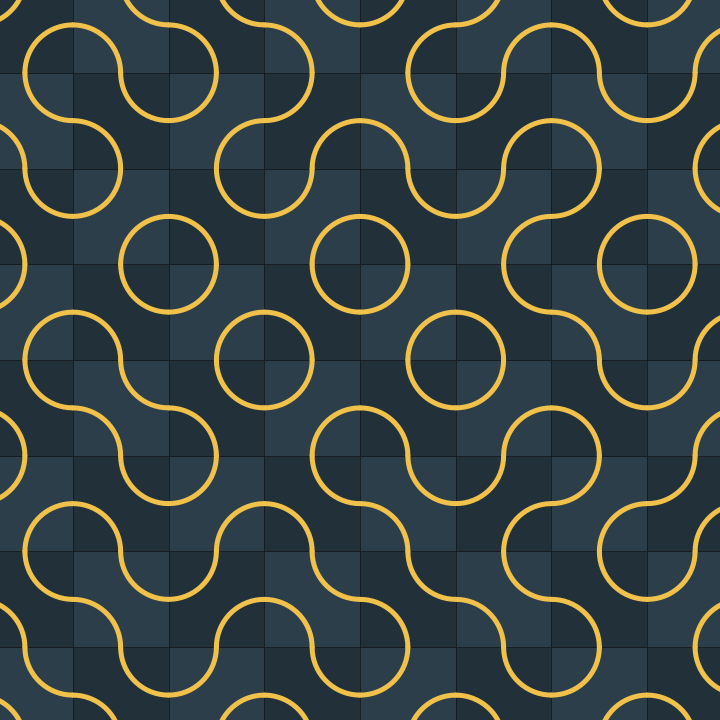
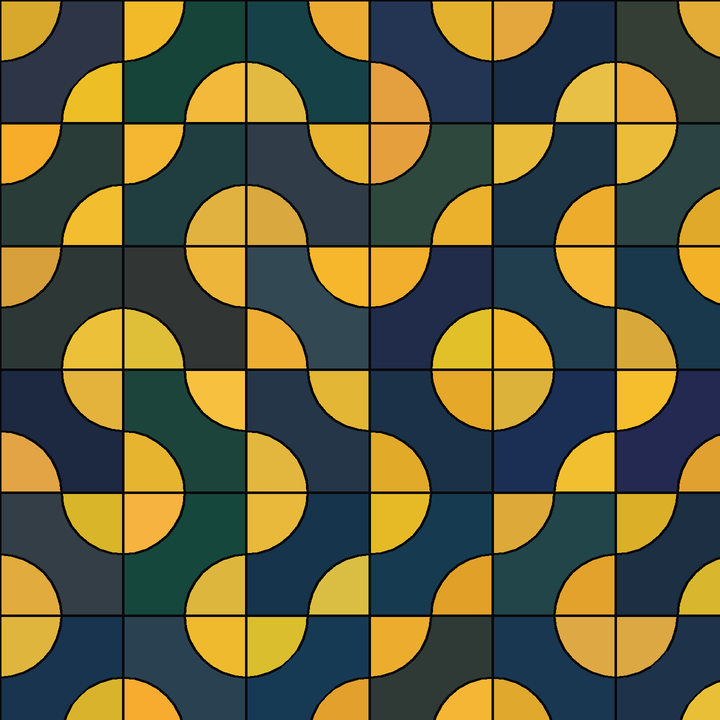
feat(shapes): wire truchet + truchet_hex (rejestr=37, Tier B zamkniety)
Truchet bez _CurvedMask (odrzucony 2026-07-11): komorka = REGION wyciety przez
luki, nie sam luk. Kwadrat -> 2 cwiercdyski (r=s/2 na przeciwleglych rogach) +
wstega "S"; heksagon -> 3 wycinki 120 st. na naprzemiennych wierzcholkach +
zakrzywiony srodek. Luk dochodzi do krawedzi w jej srodku pod katem prostym, a
kazda krawedz ma dokladnie jeden koniec w wybranej trojce => krzywe lacza sie
przez krawedzie niezaleznie od orientacji sasiada. Sasiadujace komorki wolaja
_sun_arc z TYMI SAMYMI argumentami => wspolny brzeg probkowany identycznie.

- _arc_pitch(r, tol) — NOWY helper. seg=base_s/3 (jak sunburst/voderberg) jest
  zly dla truchetu: tam promien rosnie z kadrem, tu jest zawsze ~base_s/2, wiec
  strzalka wychodzila 1-3 px i luki byly fasetowane (widoczne w truchet_hex).
  sqrt(8*r*tol) trzyma strzalke pod-pikselowo przy kazdym promieniu.
- _truchet_flip(i, j) — orientacja z hasha indeksu komorki, ZERO RNG: ta sama
  komorka ma ta sama orientacje w kazdej rozdzielczosci (podglad 2K pokazuje
  wzor, ktory bedzie w 16K — lekcja z seeda girih).
- Schematy GUI zregenerowane Z GEOMETRII SILNIKA (nowy, commitowany
  src/tools/gen_truchet_schemes.py): stare PNG rysowaly cienkie luki na tle,
  a mozaika rysuje komorki. Dwutonowa paleta => krzywe nadal sie czytaja.

Bramki: pokrycie 0.00%/0.01% dziur (najwieksza spojna dziura 1 px = szum
rasteryzacji na krzywych szwach), +4 goldeny both-borders identyczne w 2
procesach, 363 testy zielone, rendery 2K w output/new3_truchet*.jpg.

diff --git a/src/engine_smart.py b/src/engine_smart.py
@@ -1163,6 +1163,111 @@ def _gen_weave(engine, target_w, target_h, base_s):
                    (xc + half, yc + pitch - half)]
 
 
+# --- Truchet (square + hex) ------------------------------------------------
+# PLAN_SHAPES listed these as "Tier B" needing a curved-mask class; the
+# 2026-07-11 review dropped that (see MEMORY): an arc polygonised with a
+# sub-pixel sagitta and aa=4 in _LazyMask rasterises like a true curve, and
+# `_sun_arc` already does exactly that for sunburst/voderberg. So a Truchet
+# tile is an ordinary `polygon` shape: the arcs cut each square/hexagon into
+# cells, and neighbouring cells that share an arc call `_sun_arc` with the SAME
+# arguments, so the shared boundary is sampled identically (exact partition).
+#
+# Orientation is NOT drawn from an RNG: it is a hash of the lattice index, so
+# the same cell gets the same orientation at every resolution -- the preview
+# shows the pattern the 16K render will have ("the same pattern, just more of
+# it", the girih seed lesson), and the shape stays reproducible bit-for-bit.
+def _arc_pitch(r, tol=0.35):
+    """Chord pitch (px) for `_sun_arc` that keeps the sagitta under `tol` px on
+    an arc of radius r: sagitta ~ pitch^2 / (8r). Sunburst/voderberg can use a
+    base_s-derived pitch because their arc radius grows with the frame; a
+    Truchet arc has radius ~ base_s/2 at ANY resolution, so a pitch of base_s/3
+    would leave a visible 1-3 px facet on every cell."""
+    return max(2.0, math.sqrt(8.0 * r * tol))
+
+
+def _truchet_flip(i, j):
+    """Deterministic 0/1 orientation for lattice cell (i, j) (integer hash)."""
+    h = ((i * 73856093) ^ (j * 19349663)) & 0xFFFFFFFF
+    h ^= h >> 15
+    h = (h * 2246822519) & 0xFFFFFFFF
+    h ^= h >> 13
+    return h & 1
+
+
+def _gen_truchet(engine, target_w, target_h, base_s):
+    """Classic (Smith) Truchet: each square is cut by two quarter-circle arcs of
+    radius s/2 centred on OPPOSITE corners -> three cells: two quarter discs and
+    the S-shaped middle band. The arcs meet the square's edges at their
+    midpoints at a right angle, so they join into continuous curves across the
+    whole frame whichever way each square is flipped.
+
+    Dominant cell = the middle band, area s^2*(1 - pi/8) -> s = base_s /
+    sqrt(1 - pi/8); the quarter discs are the small tile of the mixed tiling
+    (pi/16 s^2, as in rhombitrihex)."""
+    s = base_s / math.sqrt(1.0 - math.pi / 8.0)
+    r = s / 2.0
+    seg = _arc_pitch(r)
+    for i in range(-1, int(target_w / s) + 2):
+        for j in range(-1, int(target_h / s) + 2):
+            x0, y0 = i * s, j * s
+            x1, y1 = x0 + s, y0 + s
+            if _truchet_flip(i, j) == 0:            # arcs at top-left/bottom-right
+                a_tl = _sun_arc(r, 0.0, math.pi / 2, x0, y0, seg)
+                a_br = _sun_arc(r, math.pi, 1.5 * math.pi, x1, y1, seg)
+                yield [(x0, y0)] + a_tl
+                yield [(x1, y1)] + a_br
+                yield ([(x1, y0)] + list(reversed(a_br))
+                       + [(x0, y1)] + list(reversed(a_tl)))
+            else:                                   # arcs at top-right/bottom-left
+                a_tr = _sun_arc(r, math.pi / 2, math.pi, x1, y0, seg)
+                a_bl = _sun_arc(r, 1.5 * math.pi, 2.0 * math.pi, x0, y1, seg)
+                yield [(x1, y0)] + a_tr
+                yield [(x0, y1)] + a_bl
+                yield ([(x0, y0)] + list(reversed(a_tr))
+                       + [(x1, y1)] + list(reversed(a_bl)))
+
+
+def _gen_truchet_hex(engine, target_w, target_h, base_s):
+    """Hexagonal Truchet: three arcs of radius a/2 centred on ALTERNATE vertices
+    of each hexagon, each joining the midpoints of that vertex's two edges. Every
+    edge has exactly one of its endpoints in the chosen alternating triple, so
+    every edge midpoint is an arc endpoint in BOTH neighbouring hexagons and the
+    curves always continue across edges (the arc meets the edge at a right
+    angle: the radius runs along the edge).
+
+    Cells: three 120-degree pie slices at the chosen vertices + the curved
+    middle. Dominant = middle, area a^2*(3*sqrt(3)/2 - pi/4) -> a from base_s."""
+    a = base_s / math.sqrt(1.5 * math.sqrt(3.0) - math.pi / 4.0)
+    r = a / 2.0
+    seg = _arc_pitch(r)
+    t1 = complex(math.sqrt(3.0), 0) * a
+    t2 = complex(math.sqrt(3.0) / 2, 1.5) * a
+    m0, m1, n0, n1 = _lattice_mn_range(t1, t2, target_w, target_h, pad=1.2 * a)
+    corner = [cmath.exp(1j * math.radians(30 + 60 * k)) * a for k in range(6)]
+    for m in range(m0, m1 + 1):
+        for n in range(n0, n1 + 1):
+            c = m * t1 + n * t2
+            v = [c + z for z in corner]
+            mid = [(v[k] + v[(k + 1) % 6]) / 2 for k in range(6)]   # mid[k]: v[k]-v[k+1]
+            odd = _truchet_flip(m, n)                # which alternating triple
+            arcs, middle = {}, []
+            for k in range(6):
+                if k % 2 == odd:                     # vertex v[k] carries an arc
+                    p, q = mid[(k - 1) % 6], mid[k]  # its two edge midpoints
+                    a0 = cmath.phase(p - v[k])
+                    a1 = cmath.phase(q - v[k])
+                    d = (a1 - a0 + math.pi) % (2 * math.pi) - math.pi   # short way
+                    arcs[k] = _sun_arc(r, a0, a0 + d, v[k].real, v[k].imag, seg)
+                    middle += arcs[k]
+                else:                                # vertex stays a corner
+                    middle += [(mid[(k - 1) % 6].real, mid[(k - 1) % 6].imag),
+                               (v[k].real, v[k].imag),
+                               (mid[k].real, mid[k].imag)]
+            for k, arc in arcs.items():
+                yield [(v[k].real, v[k].imag)] + arc
+            yield middle
+
+
 @dataclass(frozen=True)
 class ShapeSpec:
     """Descriptor for one tile shape.
@@ -1221,6 +1326,8 @@ SHAPE_MODES = {
     "voderberg":                ShapeSpec("polygon", _gen_voderberg, aa=4),
     "escher_lizard":            ShapeSpec("polygon", _gen_escher, aa=4),
     "weave":                    ShapeSpec("polygon", _gen_weave, aa=4),
+    "truchet":                  ShapeSpec("polygon", _gen_truchet, aa=4),
+    "truchet_hex":              ShapeSpec("polygon", _gen_truchet_hex, aa=4),
 }
 
 

diff --git a/src/tools/gen_truchet_schemes.py b/src/tools/gen_truchet_schemes.py
@@ -1,0 +1,70 @@
+"""Regenerate the GUI scheme previews for truchet / truchet_hex.
+
+The original PNGs (commit 2ec504c) were LINE DRAWINGS — thin arcs over a faint
+grid. That is what a Truchet pattern looks like on paper, but not what the
+engine renders: the engine's cells are the REGIONS the arcs cut out (two
+quarter discs + an S-band per square; three pie slices + a curved middle per
+hexagon), each filled with one photograph. A scheme that shows curves the
+mosaic cannot draw is a lie, so both PNGs are rebuilt from the engine's own
+generators (`_gen_truchet`, `_gen_truchet_hex`) — one source of geometry.
+
+Two-tone palette: the arc-corner cells get the accent colour, the middle cells
+the dark base, so the Truchet curves still read as the boundary between them.
+
+Run:
+  C:/Users/plazo/miniconda3/envs/mosaic/python.exe -m src.tools.gen_truchet_schemes
+"""
+import logging
+from pathlib import Path
+
+import numpy as np
+from PIL import Image, ImageDraw
+
+from src.engine_smart import SHAPE_MODES
+
+logger = logging.getLogger(__name__)
+
+ASSETS_DIR = Path("assets/shape_schemes")
+SIZE = 720
+SS = 2
+BG = (16, 16, 20)
+OUTLINE = (8, 8, 10)
+
+# (shape, base_s, accent, base) — base_s picked so the panel shows a patch of a
+# few cells, like the other scheme PNGs.
+PANELS = [
+    ("truchet", 96.0, (232, 176, 54), (38, 56, 68)),
+    ("truchet_hex", 96.0, (120, 214, 178), (34, 60, 62)),
+]
+
+
+def vary(rng, col, amount=16):
+    return tuple(int(np.clip(c + rng.integers(-amount, amount + 1), 0, 255))
+                 for c in col)
+
+
+def main():
+    ASSETS_DIR.mkdir(parents=True, exist_ok=True)
+    for name, base_s, accent, base in PANELS:
+        rng = np.random.default_rng(21)
+        w = h = SIZE
+        img = Image.new("RGB", (w * SS, h * SS), BG)
+        d = ImageDraw.Draw(img)
+        n = 0
+        for poly in SHAPE_MODES[name].generator(None, w, h, base_s):
+            # corner cells (quarter disc / pie slice) start at their arc centre
+            # and are small; the middle cell is the big one -> split by area.
+            xs = [p[0] for p in poly]
+            ys = [p[1] for p in poly]
+            span = max(max(xs) - min(xs), max(ys) - min(ys))
+            col = accent if span < 0.75 * base_s else base
+            d.polygon([(p[0] * SS, p[1] * SS) for p in poly],
+                      fill=vary(rng, col), outline=OUTLINE, width=3)
+            n += 1
+        out = ASSETS_DIR / f"{name}.png"
+        img.resize((SIZE, SIZE), Image.Resampling.LANCZOS).save(out)
+        print(f"[gen] {name}: {n} cells -> {out}")
+
+
+if __name__ == "__main__":
+    main()

diff --git a/tests/test_golden_shapes.py b/tests/test_golden_shapes.py
@@ -112,6 +112,13 @@ GOLDEN = {
[3 lines of base64/hex data omitted]
+    # Truchet (2026-07-13): arcs polygonised by _sun_arc with a sagitta-driven
+    # pitch (_arc_pitch), tile orientation from an integer hash of the lattice
+    # index -> no RNG, same pattern at every resolution. Cross-process verified.
[4 lines of base64/hex data omitted]
 }
 
 

diff --git a/PLAN_SHAPES.md b/PLAN_SHAPES.md
@@ -30,7 +30,7 @@ Pogrupowane po wspólnej maszynerii (nie po autorze propozycji):
 | S5 | voronoi, phyllotaxis, poincare | zmienna wielkość komórek: seeded RNG + próg min-area |
 | S6 | sunburst, voderberg, trunc_square, trunc_hex, rhombitrihex | polar (polygonizacja łuków) + archimedesowe — **ZROBIONE** |
 | S7 | girih, escher_lizard | geometria „projektowana" (patrz wyzwania) — **escher_lizard ZROBIONY**; girih został |
-| S8 | truchet, truchet_hex, weave | ~~Tier B~~ — `_CurvedMask` odrzucony (2026-07-11), weave = partycja (2026-07-13, **ZROBIONY**); zostaje truchet ×2 jako zwykłe `polygon` |
+| S8 | truchet, truchet_hex, weave | ~~Tier B~~ — **ZROBIONE 2026-07-13**: `_CurvedMask` odrzucony (2026-07-11), weave = partycja, truchet ×2 = zwykłe `polygon` |
 | S9 | docs (README EN+PL), montaż zbiorczy 20, mozaiki testowe dla usera | zamknięcie |
 
 ## Geometria — konkrety i pułapki per kształt
@@ -66,7 +66,10 @@ Pogrupowane po wspólnej maszynerii (nie po autorze propozycji):
 - **escher_lizard:** system p1 na heksagonie pointy-top: krawędzie e0,e1,e2 deformowane polilinią, e3,e4,e5 = translacje odwrotności (`t01=h0+h1` itd. — dokładnie w `gen_escher`); kafelkowanie CZYSTĄ translacją `(√3,0),(√3/2,1.5)` — silnikowo trywialne. ⚠ Wyzwanie artystyczne: obecny profil to „abstrakcyjny stworek"; docelowa sylwetka jaszczurki wymaga ręcznego dostrojenia polilinii (iteracje wizualne z userem) — geometria się nie zmienia, tylko offsety.
 
 ### S8: Tier B
-- **truchet/truchet_hex:** przed budową `_CurvedMask` zrobić **prototyp 1 kafelka** i pokazać userowi — siła truchet to rysunek łuków, nie kształt maski; efekt fotomozaiki może rozczarować. Decyzja go/no-go po prototypie. `_CurvedMask` = maska z `ImageDraw.pieslice`/arc na supersamplu, ten sam kontrakt co `_LazyMask` (deterministyczna re-rasteryzacja przy kompozycie).
+- **truchet/truchet_hex — WDROŻONE 2026-07-13** (`_CurvedMask` nigdy nie powstał — odrzucony 2026-07-11). Komórki = REGIONY wycięte przez łuki, nie same łuki: kwadrat → 2 ćwierćdyski (łuki r=s/2 na przeciwległych rogach) + wstęga „S"; heksagon → 3 wycinki 120° na NAPRZEMIENNYCH wierzchołkach (łuk r=a/2 łączy środki dwóch krawędzi tego wierzchołka) + zakrzywiony środek. Ciągłość krzywych: łuk dochodzi do krawędzi w jej środku pod kątem prostym (promień biegnie wzdłuż krawędzi), a każda krawędź ma dokładnie jeden koniec w wybranej trójce ⇒ krzywe łączą się przez krawędzie NIEZALEŻNIE od orientacji sąsiada.
+- ⚠ **Pułapka kroku polygonizacji (kosztowała iterację — fasetowane łuki w truchet_hex):** `seg = base_s/3` (jak sunburst/voderberg) jest ZŁE dla truchetu. Tam promień łuku rośnie z kadrem, tu promień to zawsze ~`base_s/2` — przy `seg=base_s/3` strzałka wychodzi 1–3 px i widać wielokąt. Nowy helper `_arc_pitch(r, tol=0.35)` = `sqrt(8·r·tol)` (ze wzoru strzałka ≈ krok²/8r) trzyma strzałkę pod-pikselowo przy każdym `r`.
+- **Orientacja bez RNG:** `_truchet_flip(i, j)` = hash całkowitoliczbowy indeksu komórki ⇒ ta sama komórka ma tę samą orientację w KAŻDEJ rozdzielczości (podgląd 2K pokazuje wzór, który będzie w 16K — lekcja z seeda girih), `seeded=False`, render reprodukowalny bit-w-bit.
+- **Schematy GUI zregenerowane z geometrii silnika** (`src/tools/gen_truchet_schemes.py`, COMMITOWANY): stare PNG (2ec504c) rysowały cienkie łuki na tle — mozaika takich linii nie narysuje, rysuje komórki. Dwutonowa paleta (ćwierćdyski akcentem) sprawia, że krzywe truchetu nadal się czytają.
 - **weave — ROZSTRZYGNIĘTE 2026-07-13 (wdrożone):** pierwotny zapis („nie jest partycją, kompozycja sekwencyjna z-order, przerwa między wstęgami = tło") jest **UNIEWAŻNIONY** przez twardą regułę usera z 2026-07-03 (każdy kształt = prawdziwa teselacja brzeg-w-brzeg, bez nakładek i bez luk). W silniku nakładki = dwa zdjęcia walczące o piksele, a przerwy = czarne kwadraty. Wdrożona **partycja**: komórka = WIDOCZNY kawałek wstęgi (wstęga znika dokładnie na swoich skrzyżowaniach „pod", więc jej widoczny kawałek biegnie od jednego takiego skrzyżowania do następnego → prostokąt `w × (2·pitch − w)` wyśrodkowany na skrzyżowaniu „nad"; parzystość `(i+j)` przydziela każde skrzyżowanie dokładnie jednej wstędze) + **komórka-węzeł** `(pitch − w)²` w dziurze między czterema wstęgami (mały kafel teselacji mieszanej, jak trójkąty w rhombitrihex). Schemat `assets/shape_schemes/weave.png` zregenerowany z tej samej geometrii (`gen_weave`, rev 2026-07-13) — GUI pokazuje to, co silnik naprawdę renderuje. Dominujący kafel: `pitch = base_s/√0.9324`.
 
 ## Wyzwania przekrojowe (checklista przed każdym sprintem)
